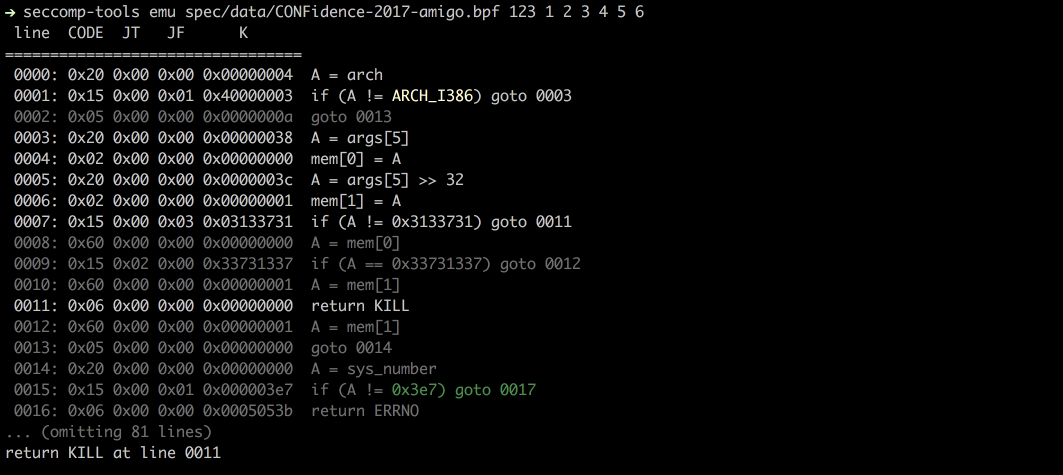
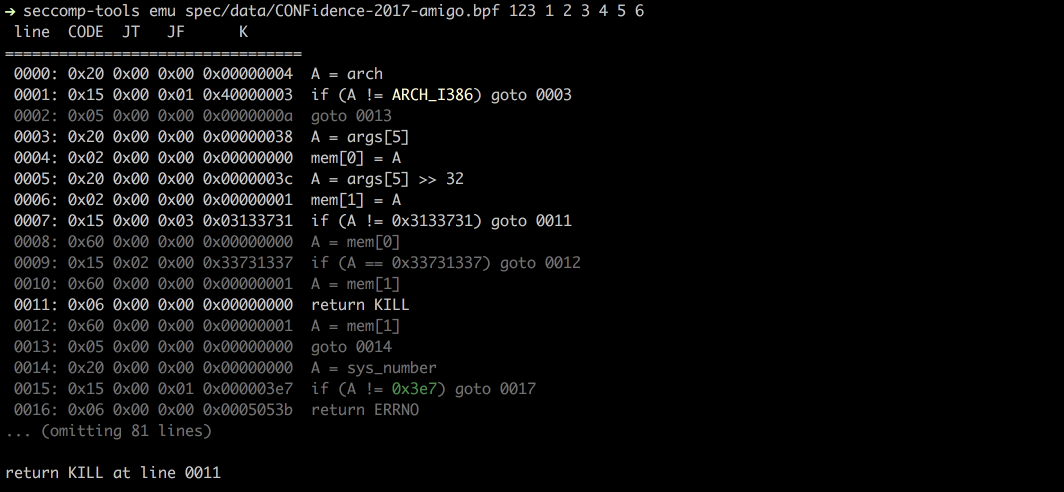
fix color code

Changed region(s): [[0.0, 0.0, 0.6209, 0.9726]]

diff --git a/lib/seccomp-tools/cli/emu.rb b/lib/seccomp-tools/cli/emu.rb
@@ -68,7 +68,7 @@ module SeccompTools
             end
             # Too much remain, omit them.
             rem = disasm.size - idx - 1
-            break output { Util.colorize("... (omitting #{rem} lines)", t: :gray) } if rem > 3 && idx > res[:pc] + 4
+            break output { Util.colorize("... (omitting #{rem} lines)\n", t: :gray) } if rem > 3 && idx > res[:pc] + 4
           end
           output { "\n" }
         end

diff --git a/lib/seccomp-tools/util.rb b/lib/seccomp-tools/util.rb
@@ -57,7 +57,7 @@ module SeccompTools
       return s unless colorize_enabled?
       cc = COLOR_CODE
       color = cc[t]
-      "#{color}#{s.sub(cc[:esc_m], color)}#{cc[:esc_m]}"
+      "#{color}#{s.sub(cc[:esc_m], cc[:esc_m] + color)}#{cc[:esc_m]}"
     end
   end
 end
